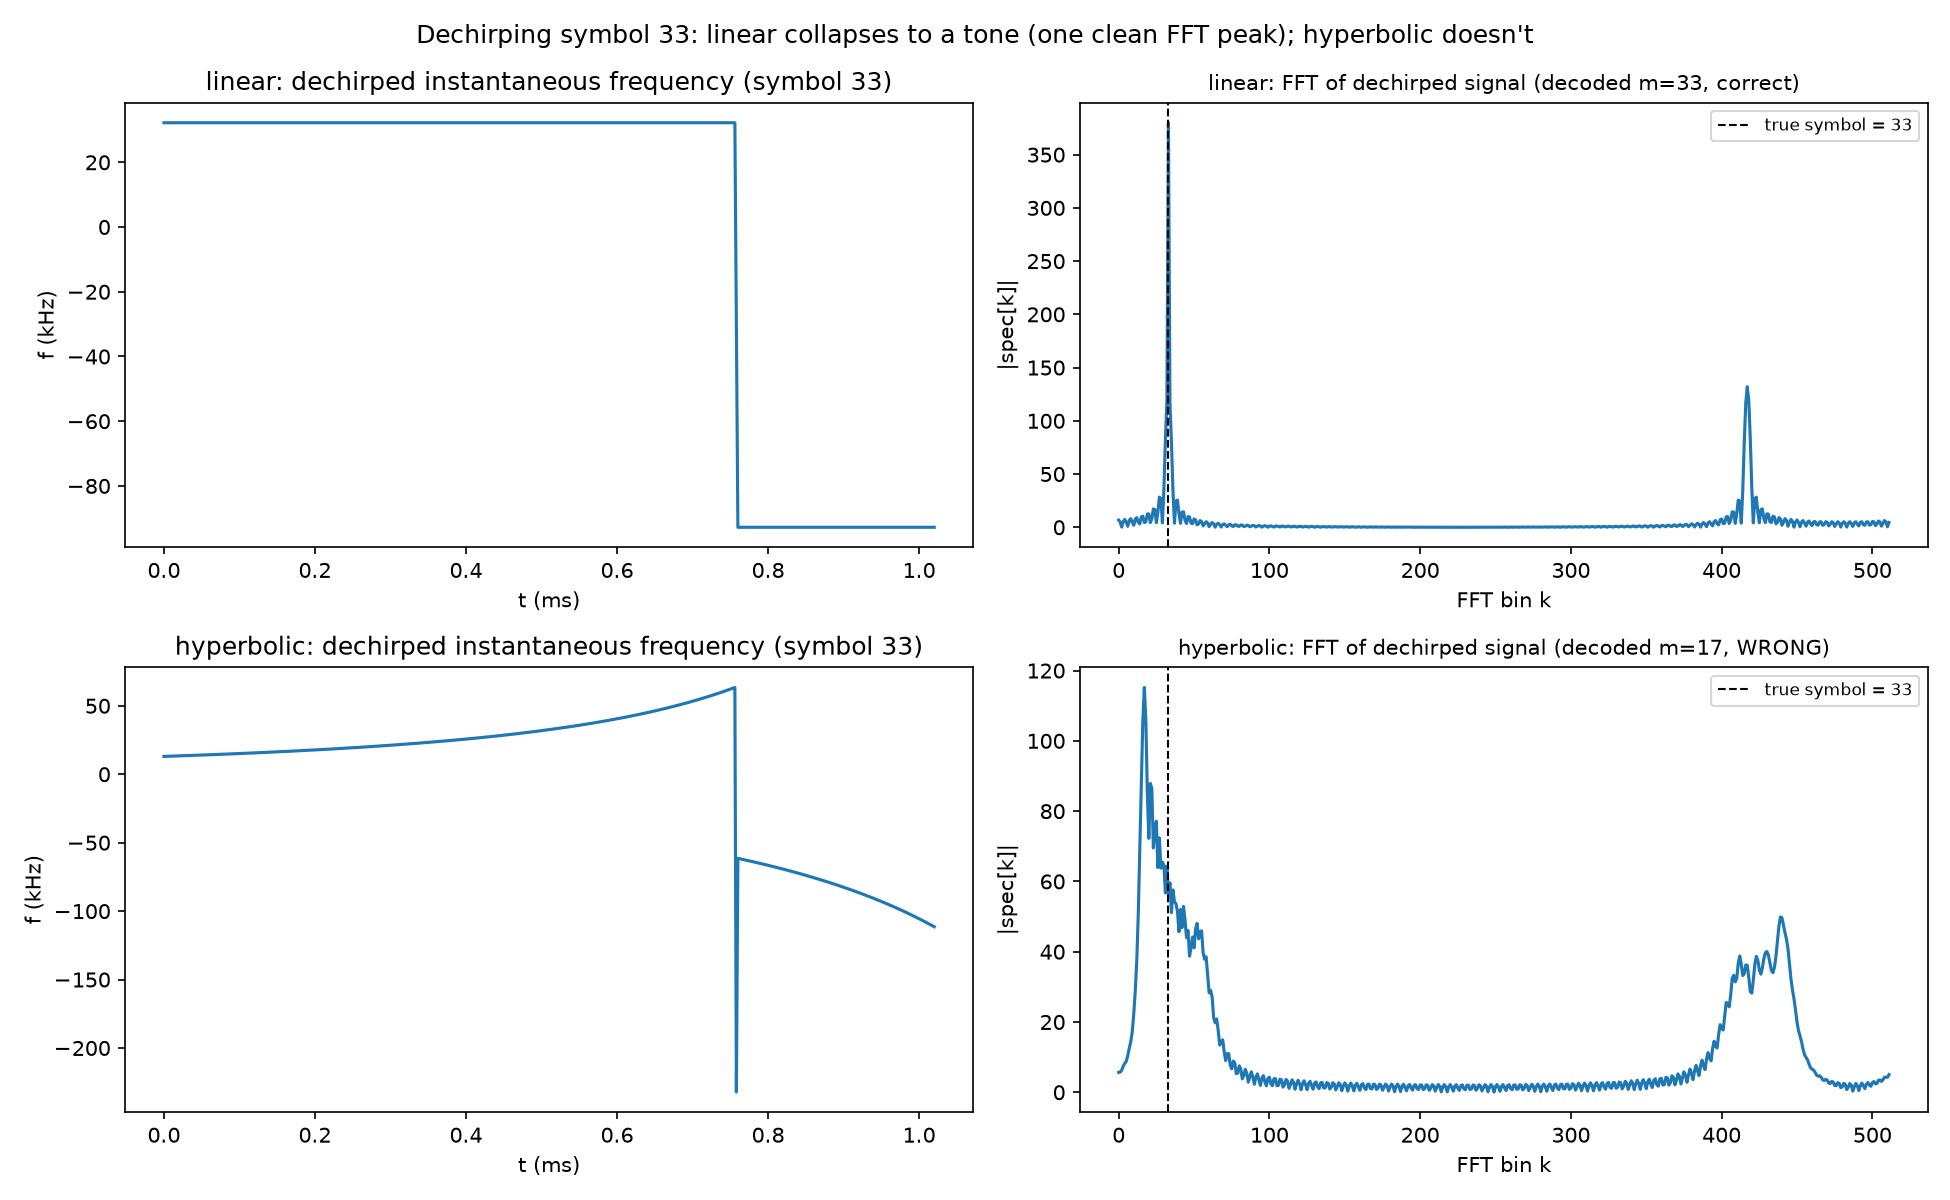
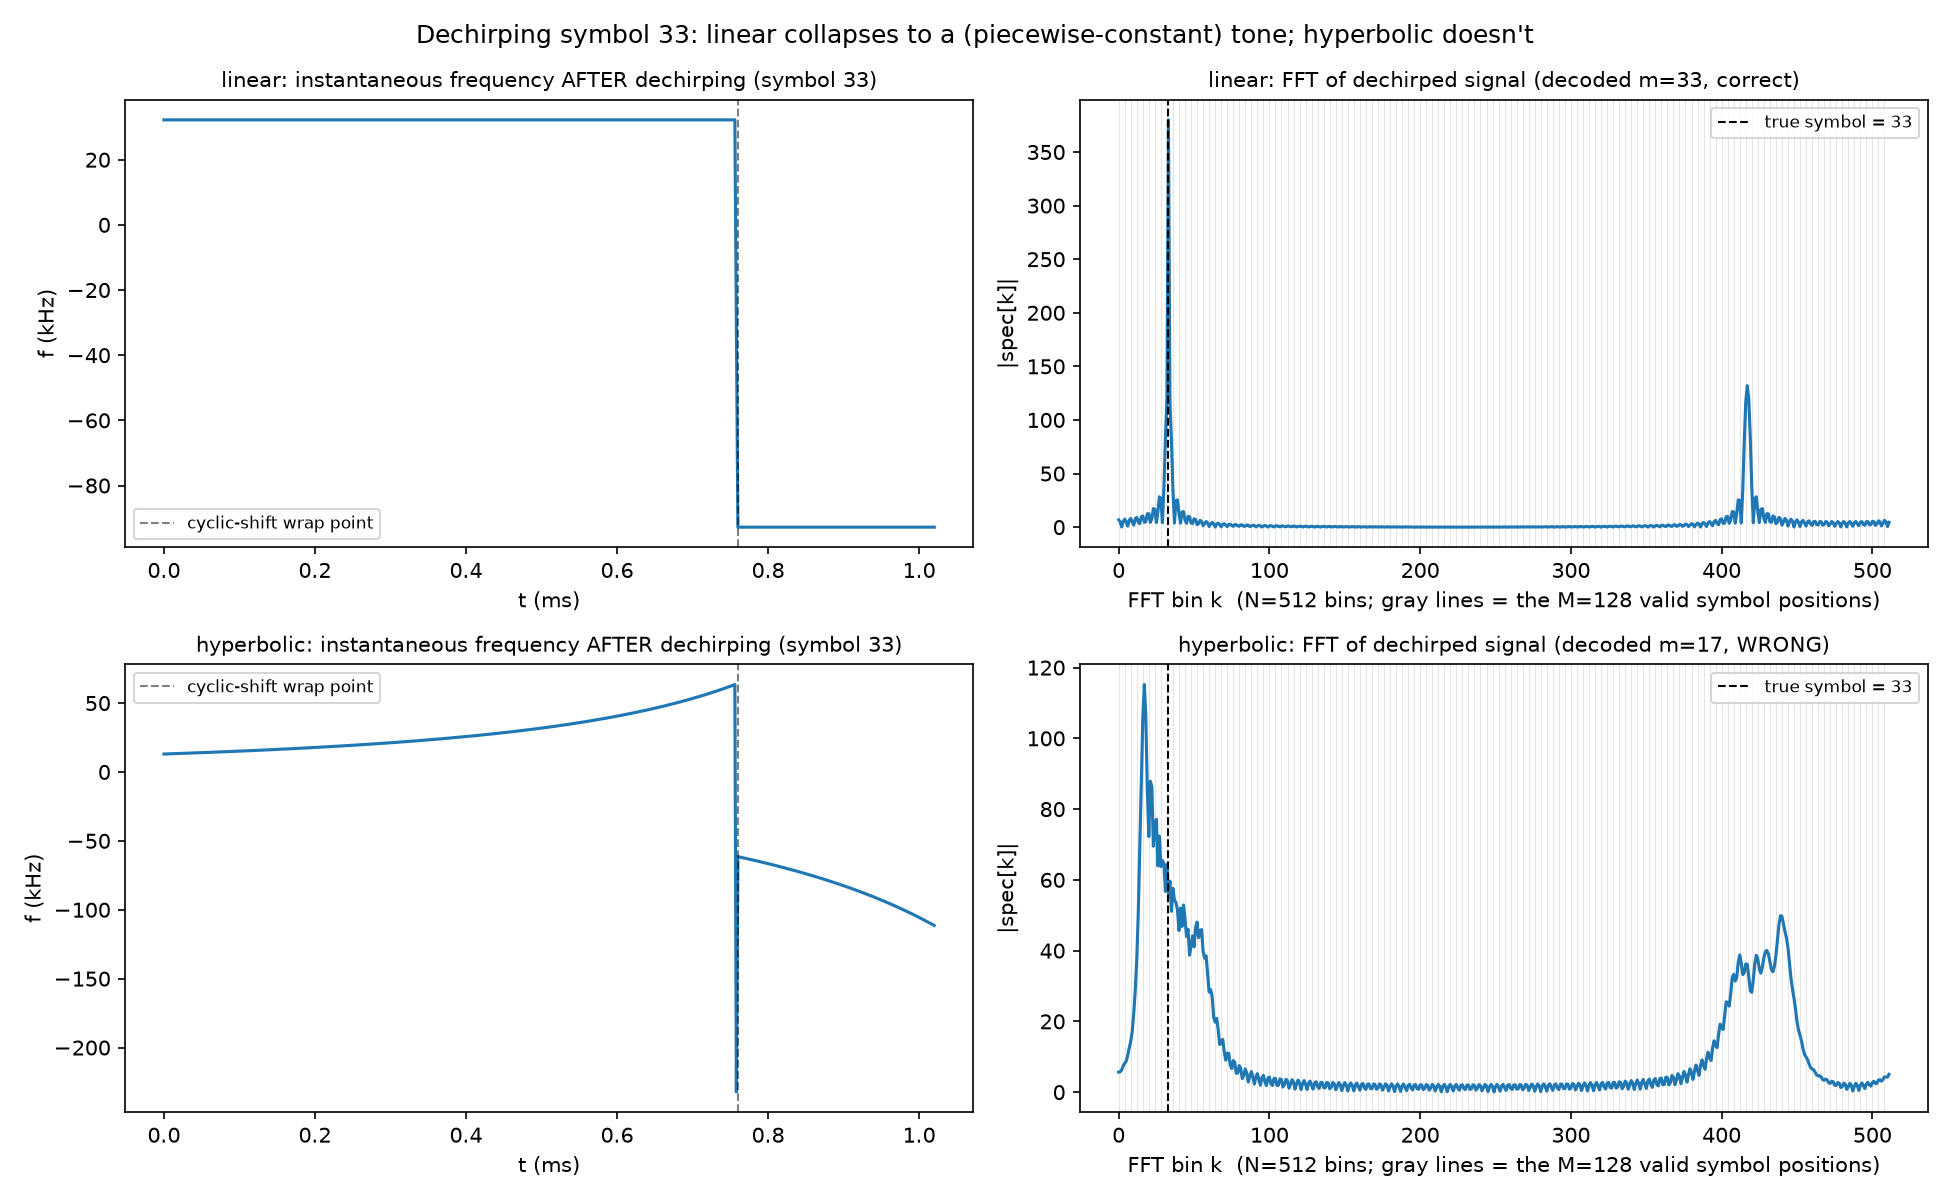
Clarify 15_dechirp_linear_vs_hyperbolic.png: mark the wrap point and valid bins
Three points raised about the figure, all verified correct rather
than bugs (checked numerically and against the exact closed-form
f(t+tau)-f(t), not just the phase-derivative estimate):

- The frequency panels show the signal AFTER dechirping, not the raw
  transmitted chirp -- the raw linear chirp does sweep (Chapter 1's
  plot). Dechirping is exactly what cancels that sweep; "flat" is the
  point being demonstrated, not a plotting error. Linear's dechirped
  frequency is actually two constant levels one full bandwidth B
  apart (stepping at the cyclic-shift wrap), not a single flat line --
  now marked on the plot and explained in NARRATIVE.md.
- Hyperbolic's post-wrap downward curve is real: hyperbolic's own
  chirp rate increases over time, so after the wrap the dechirped
  signal compares an increasingly steep late segment against a
  shallow early one, widening the gap as time goes on.
- The FFT panels run to N=512 bins because SF=7's M=128 symbols are
  each sampled at 4x oversampling (N=M*4=512), not because M is 512.
  The panels now shade the 128 valid symbol positions among the 512
  bins directly with thin gray gridlines.

Also mark the cyclic-shift wrap point explicitly on both frequency
panels and rewrite the surrounding NARRATIVE.md prose to walk through
all three points instead of leaving them implicit.

Claude-Session: https://claude.ai/code/session_01JYjBKKycGVqv95onyZBz3b

diff --git a/examples/run_experiments.py b/examples/run_experiments.py
@@ -203,25 +203,33 @@ def plot_dechirp_linear_vs_hyperbolic():
         g, _ = TRAJECTORIES[traj]
         f_center = hyperbolic_center_freq(BANDWIDTH) if traj == "hyperbolic" else 0.0
         cfg = ChirpConfig(sf=SF, bandwidth=BANDWIDTH, sample_rate=OVERSAMPLING * BANDWIDTH, g=g, f_center=f_center)
+        n = cfg.n_samples
         rx = symbol_waveform(cfg, m_true)  # noiseless: isolates the dechirp/FFT mechanism itself
         d = dechirp(rx, cfg)
 
         f_inst = np.diff(np.unwrap(np.angle(d))) * cfg.sample_rate / (2 * np.pi)
         t = np.arange(len(f_inst)) / cfg.sample_rate * 1e3
+        wrap_t = t[(n - int(round(m_true * n / cfg.M))) % n]
         axes[row, 0].plot(t, f_inst / 1e3)
-        axes[row, 0].set(xlabel="t (ms)", ylabel="f (kHz)",
-                          title=f"{traj}: dechirped instantaneous frequency (symbol {m_true})")
+        axes[row, 0].axvline(wrap_t, color="k", linestyle="--", linewidth=1, alpha=0.5, label="cyclic-shift wrap point")
+        axes[row, 0].set(xlabel="t (ms)", ylabel="f (kHz)")
+        axes[row, 0].set_title(f"{traj}: instantaneous frequency AFTER dechirping (symbol {m_true})", fontsize=10)
+        axes[row, 0].legend(fontsize=8)
 
         spec = np.fft.fft(d)
         decoded = fft_demod(rx, cfg)
+        valid_lags = (np.arange(cfg.M) * n // cfg.M) % n
         axes[row, 1].plot(np.abs(spec))
+        for lag in valid_lags:
+            axes[row, 1].axvline(lag, color="gray", linewidth=0.4, alpha=0.25, zorder=0)
         axes[row, 1].axvline(m_true, color="k", linestyle="--", linewidth=1, label=f"true symbol = {m_true}")
         correct = "correct" if decoded == m_true else "WRONG"
-        axes[row, 1].set(xlabel="FFT bin k", ylabel="|spec[k]|")
+        axes[row, 1].set(xlabel=f"FFT bin k  (N={n} bins; gray lines = the M={cfg.M} valid symbol positions)",
+                          ylabel="|spec[k]|")
         axes[row, 1].set_title(f"{traj}: FFT of dechirped signal (decoded m={decoded}, {correct})", fontsize=10)
         axes[row, 1].legend(fontsize=8)
 
-    fig.suptitle("Dechirping symbol 33: linear collapses to a tone (one clean FFT peak); hyperbolic doesn't")
+    fig.suptitle("Dechirping symbol 33: linear collapses to a (piecewise-constant) tone; hyperbolic doesn't")
     fig.tight_layout()
     fig.savefig(os.path.join(OUT_DIR, "15_dechirp_linear_vs_hyperbolic.png"), dpi=150)
     plt.close(fig)

diff --git a/NARRATIVE.md b/NARRATIVE.md
@@ -169,17 +169,43 @@ the same symbol (33), decoded via `fft_demod` for linear vs. hyperbolic:
 
 ![Dechirped instantaneous frequency and the resulting FFT for symbol 33, linear vs. hyperbolic](pictures/15_dechirp_linear_vs_hyperbolic.png)
 
-Top row, linear: the dechirped frequency (left) is flat — a step at the
-symbol's cyclic-shift wrap point, but constant on either side — so its FFT
-(right) is one sharp spike sitting right at bin 33, and `fft_demod` reads
-the symbol straight off it. Bottom row, hyperbolic, same symbol: the
-dechirped frequency (left) keeps curving even after dechirping, never
-settling into a tone, so its FFT (right) smears across many bins instead of
-concentrating in one — and `fft_demod`'s `argmax` confidently returns the
-*wrong* symbol (17, not 33). Not "less accurate" — wrong, on a noiseless
-signal, which is exactly the failure
+A few things worth being explicit about, since this figure packs in more
+than it first looks like:
+
+**The left-hand panels are the frequency *after* dechirping, not the raw
+transmitted chirp.** The raw linear chirp does sweep, exactly like Chapter
+1's plot shows — dechirping is precisely the operation that cancels that
+sweep. So "flat" here isn't a failure to plot the sweep; it *is* the effect
+being demonstrated: multiplying by the reference's conjugate turns a moving
+frequency into a (nearly) constant one, which is the entire reason a single
+FFT can read off a bin index for linear chirps. Concretely, top row: the
+dechirped frequency sits at one constant value, steps to a *second* constant
+value at the wrap point (differing by exactly the swept bandwidth `B`,
+125 kHz here), and stays there. Two flat pieces, not one — but each piece by
+itself is still a tone, which is why the FFT (right) still lands one sharp
+spike at bin 33 rather than two separate ones.
+
+**Bottom row, hyperbolic: the post-wrap curve descends because hyperbolic's
+own chirp *rate* is increasing over time** (visible in Chapter 1's
+right-hand `df/dt` panel — hyperbolic's rate climbs fastest near the end of
+the sweep). After the wrap, the dechirped signal is comparing a late,
+steep part of the trajectory against an early, shallow part, and that gap
+widens as time goes on — hence the downward curve, verified here against
+the exact closed-form `f(t+τ)-f(t)`, not just the noisier numerical
+derivative. Either way, the frequency never settles into a single value, so
+the FFT (right) smears across many bins instead of concentrating in one —
+and `fft_demod`'s `argmax` confidently returns the *wrong* symbol (17, not
+33). Not "less accurate" — wrong, on a noiseless signal, which is exactly
+the failure
 `tests/test_receiver.py::test_fft_demod_fails_for_properly_embedded_hyperbolic_chirp`
 confirms directly rather than just arguing for it.
+
+**Why the FFT panels run to 512, not 128:** `SF=7` gives `M=128` possible
+*symbols*, but each symbol is sampled at `N=512` points (4x oversampling —
+a standard receiver design choice this project keeps, not something
+specific to nonlinear trajectories). The FFT operates on those 512
+time-domain samples, so it has 512 bins; only 128 of them (the thin gray
+lines) are actual valid symbol positions the decoder ever looks at.
 
 ---
 

diff --git a/README.md b/README.md
@@ -131,11 +131,16 @@ trajectories at SF7 / 125 kHz (a standard LoRa configuration):
   trajectory's end folds back to its start is marked directly.
 - **`15_dechirp_linear_vs_hyperbolic.png`** -- the same symbol (33),
   dechirped, linear vs. hyperbolic. Linear's dechirped instantaneous
-  frequency is flat (a tone, aside from the cyclic-shift wrap step), so its
-  FFT is one clean spike at bin 33 and `fft_demod` reads the symbol
-  straight off it. Hyperbolic's dechirped frequency keeps curving, never
-  settling into a tone, so its FFT smears and `fft_demod` confidently
-  decodes the wrong symbol (17) on a noiseless signal.
+  frequency is piecewise-constant (two flat levels, one full bandwidth `B`
+  apart, stepping at the cyclic-shift wrap point) so its FFT is one clean
+  spike at bin 33 and `fft_demod` reads the symbol straight off it.
+  Hyperbolic's dechirped frequency never settles into a constant at all --
+  it keeps curving even after the wrap, because hyperbolic's own chirp
+  *rate* increases over time (see `01_frequency_trajectories.png`) -- so its
+  FFT smears and `fft_demod` confidently decodes the wrong symbol (17) on a
+  noiseless signal. The FFT panels' gray gridlines mark the `M=128` valid
+  symbol positions among the `N=512` total bins (`SF=7` symbols, 4x
+  oversampled).
 - **`13_fft_correlation_demo.png`** -- `fft_correlation_demod` laid open on
   one received symbol (hyperbolic, symbol 33, 10 dB SNR): `|S[k]|` and
   `|R[k]|`, the two FFT magnitudes; what conjugating `R[k]` actually changes
